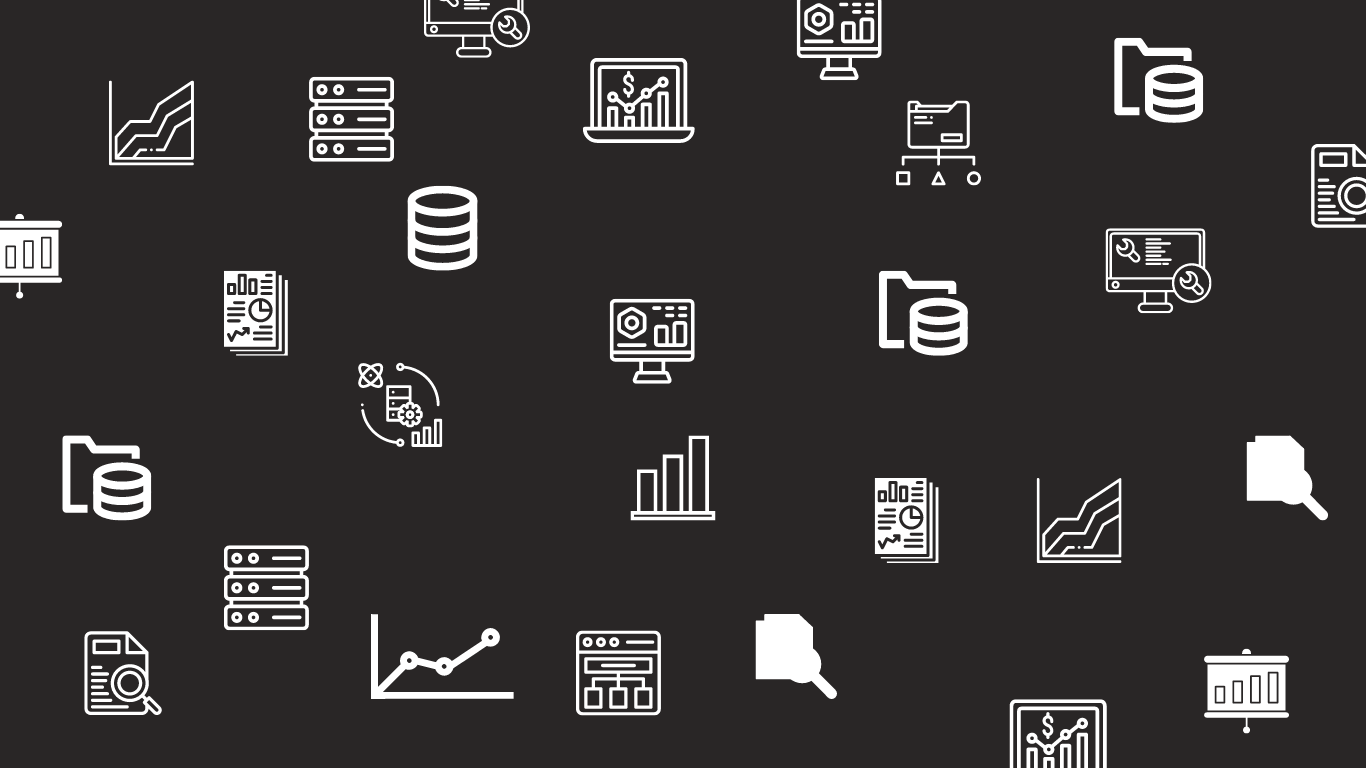
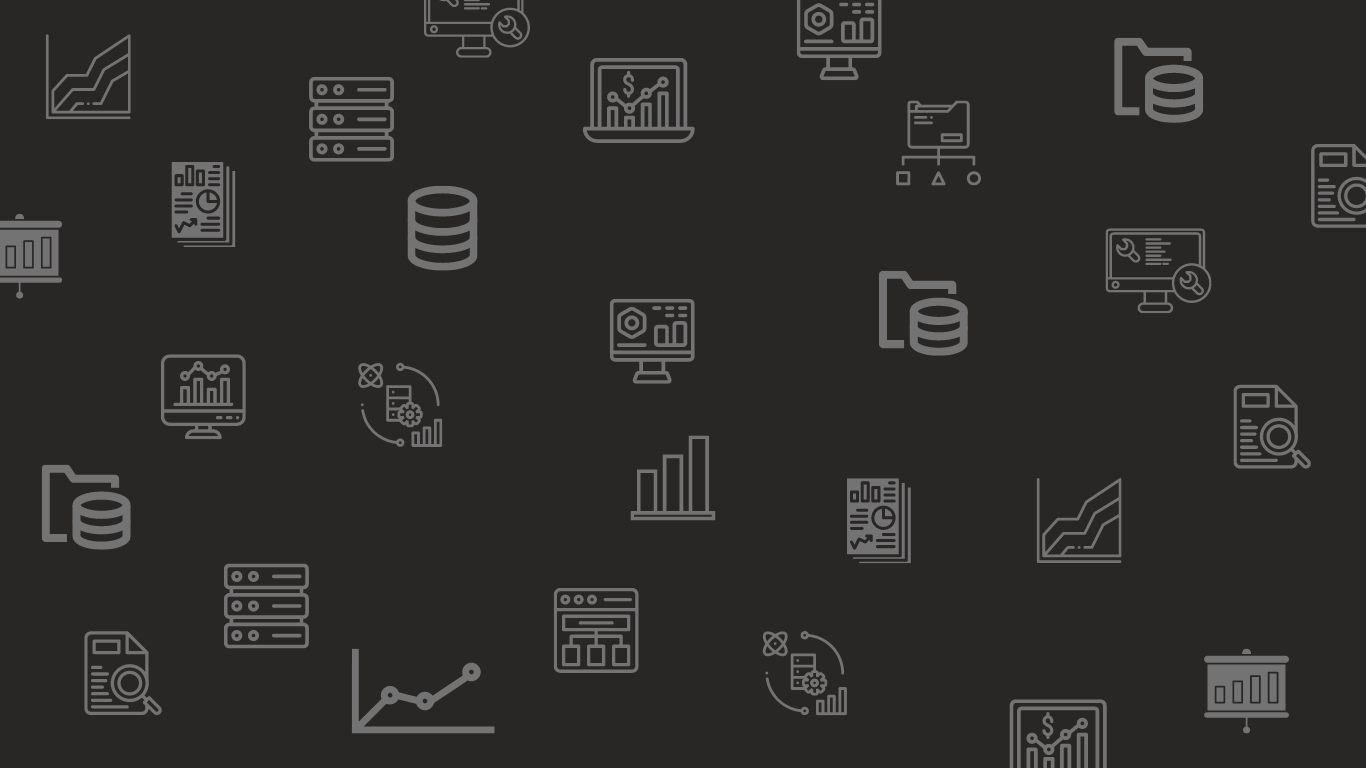
changing background

diff --git a/css/styles.css b/css/styles.css
@@ -215,11 +215,12 @@ p {
 }
 
 #about-me {
-    margin: 10px 2px;
+    margin: 10px 5px;
 }
 
 img.studies-ico {
     width: 100%;
+    max-width: 50px;
 }
 
 img.certificates {
